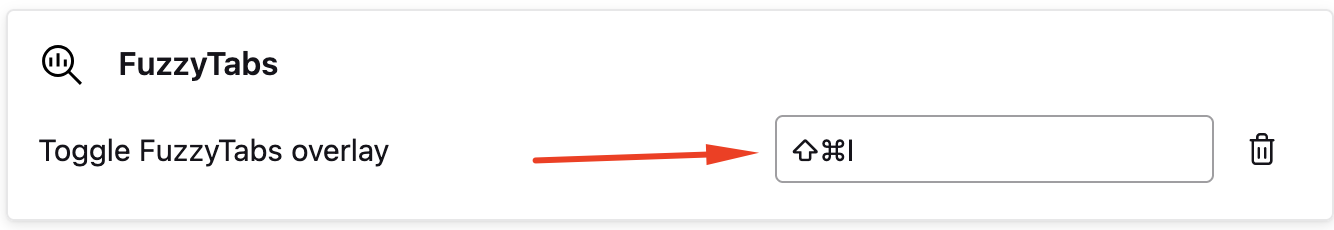
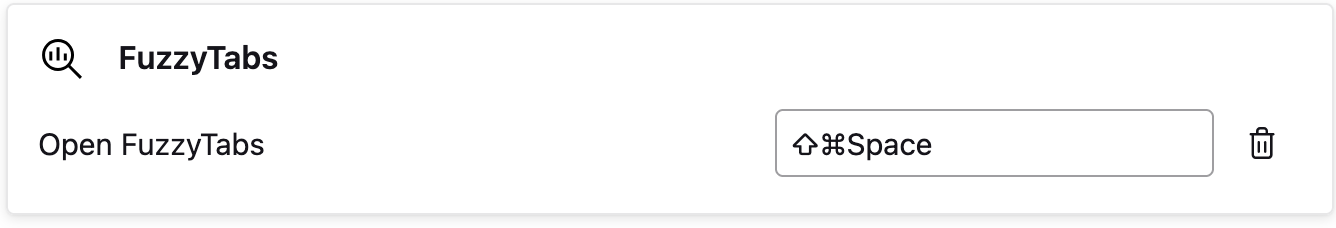
Update README: add extension link and new shortcut; update settings image

diff --git a/README.md b/README.md
@@ -15,6 +15,8 @@ FuzzyTabs is a minimal browser extension that lets you quickly find and switch b
 search.
 It runs instantly, stays out of your way, and keeps resource usage low.
 
+https://addons.mozilla.org/en-US/firefox/addon/terrakok-fuzzytabs/
+
 ## Motivation
 
 Firefox has a built-in search for tabs, but it's not as fast and convenient as FuzzyTabs:
@@ -36,7 +38,7 @@ Firefox has a built-in search for tabs, but it's not as fast and convenient as F
 
 ## Usage
 
-- Open: Click the FuzzyTabs toolbar button
+- Open: Click the FuzzyTabs toolbar button or `Ctrl+Shift+Space`
 - Navigate: Arrow Up/Down or `Ctrl+N` / `Ctrl+P`
 - Activate the selected tab: Enter
 - Close the selected tab: `Ctrl+W` (macOS) / `Alt+W` (Linux/Windows)
